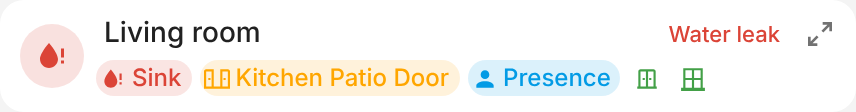
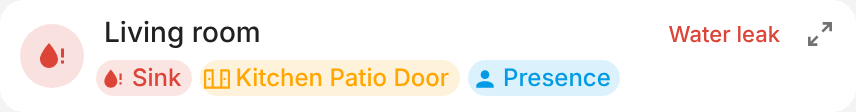
Sensors mini card: compact view only shows what needs a look (1.11.0) (#13)
## Summary

Sensors mini card: the compact view only shows **what needs a look**;
quiet sensors show once zoomed in.

- One tinted pill per open, leaking or detecting sensor; quiet sensors
hidden, so a quiet room is a single line (empty chip row hidden)
- `only_alerts` removed from the Sensors mini card (defaults and visual
editor); one left in YAML is ignored
- `rcMini(Base, tag, styles, { alertsOnly })`: the option sets
`only_alerts` on in the compact view; zoomed in, everything is shown
- **Environment mini card unchanged**: every reading, `only_alerts`
still available

| Sensors mini |
|---|
|
![](https://raw.githubusercontent.com/juju35/ha-room-card/feat/mini-alerts-only/screenshots/sensors-mini-open.png)
|

Version **1.11.0**, CHANGELOG and README updated.

## Test plan

- [x] `npm run check`
- [x] `node --test` — 51 pass
- [x] Biome CI, jscpd: 0 clones
- [ ] Check the Sensors mini in HA

https://claude.ai/code/session_01RpNAWf1pCHs9TdUJJdCv4w

---
_Generated by [Claude Code](https://claude.ai/code)_

---------

Changed region(s): [[0.729, 0.5893, 0.8505, 0.8304]]

diff --git a/src/shared.js b/src/shared.js
@@ -576,11 +576,15 @@ class RcToggleCard extends RcCard {
 // A mini card shows what its full card (`Base`) shows on two lines: the room badge, title and status, then one chip
 // per entity. Its zoom button (top right, `zoom: false` removes it) switches it to the full card and back.
 // The subclass implements `_drawMini(items)`, which builds the chips and calls `_paintMini`.
-// Zoomed in, the card shows everything: `only_alerts` and `hide_when_clear` only apply to the compact view.
-const rcMini = (Base, tag, styles) =>
+// Zoomed in, everything is shown (`only_alerts` and `hide_when_clear` only apply to the compact view). With
+// `alertsOnly`, the compact view always shows only what needs a look (no `only_alerts` option then): quiet entities
+// show once zoomed in.
+const rcMini = (Base, tag, styles, { alertsOnly = false } = {}) =>
   class extends Base {
     static tag = tag;
-    static defaults = { ...Base.defaults, zoom: true };
+    static defaults = (({ only_alerts, ...rest }) => ({ ...rest, ...(alertsOnly ? {} : { only_alerts }), zoom: true }))(
+      Base.defaults,
+    );
     static styles = `${Base.styles}${RC_MINI_STYLES}${styles}`;
 
     getCardSize() {
@@ -593,16 +597,15 @@ const rcMini = (Base, tag, styles) =>
     }
 
     _draw(items) {
-      if (this._zoomed) {
-        const config = this._config;
-        this._config = { ...config, only_alerts: false, hide_when_clear: false };
-        try {
-          super._draw(items);
-        } finally {
-          this._config = config;
-        }
-      } else {
-        this._drawMini(items);
+      const config = this._config;
+      // The base card's own filter does the work: off zoomed in, always on in an `alertsOnly` compact view.
+      if (this._zoomed) this._config = { ...config, only_alerts: false, hide_when_clear: false };
+      else if (alertsOnly) this._config = { ...config, only_alerts: true };
+      try {
+        if (this._zoomed) super._draw(items);
+        else this._drawMini(items);
+      } finally {
+        this._config = config;
       }
       this._addZoom();
     }
@@ -849,6 +852,7 @@ const RC_MINI_STYLES = `
   .mini .title { flex: 0 1 auto; font-size: 14px; line-height: 18px; }
   .st { flex: none; margin-left: auto; font-size: 11px; font-weight: 500; color: var(--c); }
   .rs { display: flex; flex-wrap: wrap; gap: 2px 4px; margin-left: -4px; }
+  .rs:empty { display: none; }
   .r { all: unset; cursor: pointer; display: inline-flex; align-items: baseline; gap: 1px; padding: 0 5px 0 4px;
        border-radius: 999px; font-size: 12px; font-weight: 500; line-height: 18px; white-space: nowrap; --t: var(--rc-ok);
        color: var(--primary-text-color); }

diff --git a/src/room-sensors-card.js b/src/room-sensors-card.js
@@ -258,8 +258,8 @@ rcRegister(
 );
 
 // ── Mini card ────────────────────────────────────────────────────────────────
-// The same sensors on two lines: the room badge, title and status, then one chip per sensor. A quiet sensor is a
-// plain icon; an open, leaking or detecting one a tinted pill with its name. The zoom button switches to the full card.
+// The room on two lines: the badge, title and status, then a tinted pill (icon and name) for each open, leaking or
+// detecting sensor; quiet sensors only show once zoomed in to the full card.
 class RoomSensorsMiniCard extends rcMini(
   RoomSensorsCard,
   "room-sensors-mini-card",
@@ -274,6 +274,7 @@ class RoomSensorsMiniCard extends rcMini(
     .no-blink .r.on ha-icon { animation: none; }
     @media (prefers-reduced-motion: reduce) { .r.on ha-icon { animation: none; } }
   `,
+  { alertsOnly: true },
 ) {
   _drawMini(items) {
     const v = this._visible(items, ["mini", items.map((i) => [i.id, i.on, i.unavailable, i.name, i.icon])]);
@@ -294,10 +295,10 @@ class RoomSensorsMiniCard extends rcMini(
 
 const RoomSensorsMiniCardEditor = rcEditor({
   card: RoomSensorsMiniCard,
-  helpers: ["title", "only_alerts", "hide_when_clear", "presence", "zoom", "include"],
+  helpers: ["title", "hide_when_clear", "presence", "zoom", "include"],
   schema: (_lang, hass, config) => [
     ...rcAreaFields(false).filter((f) => f.name !== "columns"),
-    ...rcBooleans("only_alerts", "hide_when_clear", "presence", "blink", "zoom"),
+    ...rcBooleans("hide_when_clear", "presence", "blink", "zoom"),
     ...rcIncludeField(RoomSensorsMiniCard, hass, config),
     ...rcExcludeField(RoomSensorsMiniCard, hass, config),
   ],

diff --git a/src/room-environment-card.js b/src/room-environment-card.js
@@ -396,9 +396,8 @@ rcRegister(
 );
 
 // ── Mini card ────────────────────────────────────────────────────────────────
-// The same readings on a single line: the room badge and title, then one chip per reading (icon and value),
-// tinted only when the reading needs a look. Wraps onto a second line when the card is narrow.
-// A zoom button switches the card to the full Environment card (same readings, tiles and gauges) and back.
+// The room on two lines: the badge, title and status, then one chip per reading (icon and value), tinted only when
+// the reading needs a look. The zoom button switches to the full Environment card (tiles and gauges) and back.
 // `columns` and `show_gauge` only shape the zoomed-in view.
 class RoomEnvironmentMiniCard extends rcMini(
   RoomEnvironmentCard,
@@ -420,7 +419,7 @@ class RoomEnvironmentMiniCard extends rcMini(
 
     const shown = c.only_alerts ? items.filter((i) => i.sev !== "ok") : items;
     this._shown = shown.length;
-    // Comfortable readings stay plain; the ones needing a look get a tinted pill.
+    // Comfortable readings stay plain; the ones needing a look get a tinted pill, cool ones in blue.
     const pill = (i) => i.sev === "warn" || i.sev === "alert" || (i.cold && i.sev !== "ok");
     const chips = shown
       .map(

diff --git a/README.md b/README.md
@@ -57,12 +57,12 @@ All the cards share the same look (header with a status pill, compact tiles), a 
 
 ### Sensors mini
 
-`custom:room-sensors-mini-card` — The same sensors on two lines, with a zoom to the full card.
+`custom:room-sensors-mini-card` — Only what is open or detected, for a compact dashboard; zoom in for every sensor.
 
 - Room badge coloured like the Sensors card, the title and the status (*1 open*, *Water leak*) on the first line
-- One chip per sensor on the second line: a quiet sensor is a plain icon, an open, leaking or detecting one a tinted pill with its name (blinking unless `blink: false`)
-- **Zoom** button (top right) switches the card to the full [Sensors card](#sensors) and back (`zoom: false` removes it); zoomed in, every sensor is shown, `only_alerts` only filtering the compact view
-- Same discovery and options as the Sensors card: `only_alerts`, `hide_when_clear`, `presence`, `blink`, `include` / `exclude`
+- On the second line, a tinted pill with its name for each open, leaking or detecting sensor (blinking unless `blink: false`); quiet sensors are hidden, so a quiet room is a single line
+- **Zoom** button (top right) switches the card to the full [Sensors card](#sensors) — every sensor, with how long it has been open — and back (`zoom: false` removes it)
+- Same discovery and options as the Sensors card: `hide_when_clear` (compact view only), `presence`, `blink`, `include` / `exclude`
 - Tap a sensor to open its details
 
 ### Lights
@@ -290,7 +290,7 @@ In addition to the [common options](#common-options):
 
 ### Sensors mini
 
-Same options as the [Sensors card](#sensors), plus `zoom`; `columns` only shapes the zoomed-in view:
+Same options as the [Sensors card](#sensors) except `only_alerts` (the compact view always hides quiet sensors), plus `zoom`; `columns` only shapes the zoomed-in view:
 
 ```yaml
 type: custom:room-sensors-mini-card

diff --git a/CHANGELOG.md b/CHANGELOG.md
@@ -1,5 +1,11 @@
 # Changelog
 
+## 1.11.0
+
+### Changes
+- Sensors mini card: the compact view only shows what needs a look — open, leaking or detecting sensors. Quiet sensors show once zoomed in, so a quiet room is a single line.
+- Sensors mini card: no more `only_alerts` option (it is what the compact view does); an `only_alerts` left in its YAML is ignored. The Environment mini card is unchanged: every reading, with `only_alerts` as before.
+
 ## 1.10.0
 
 ### What's new
